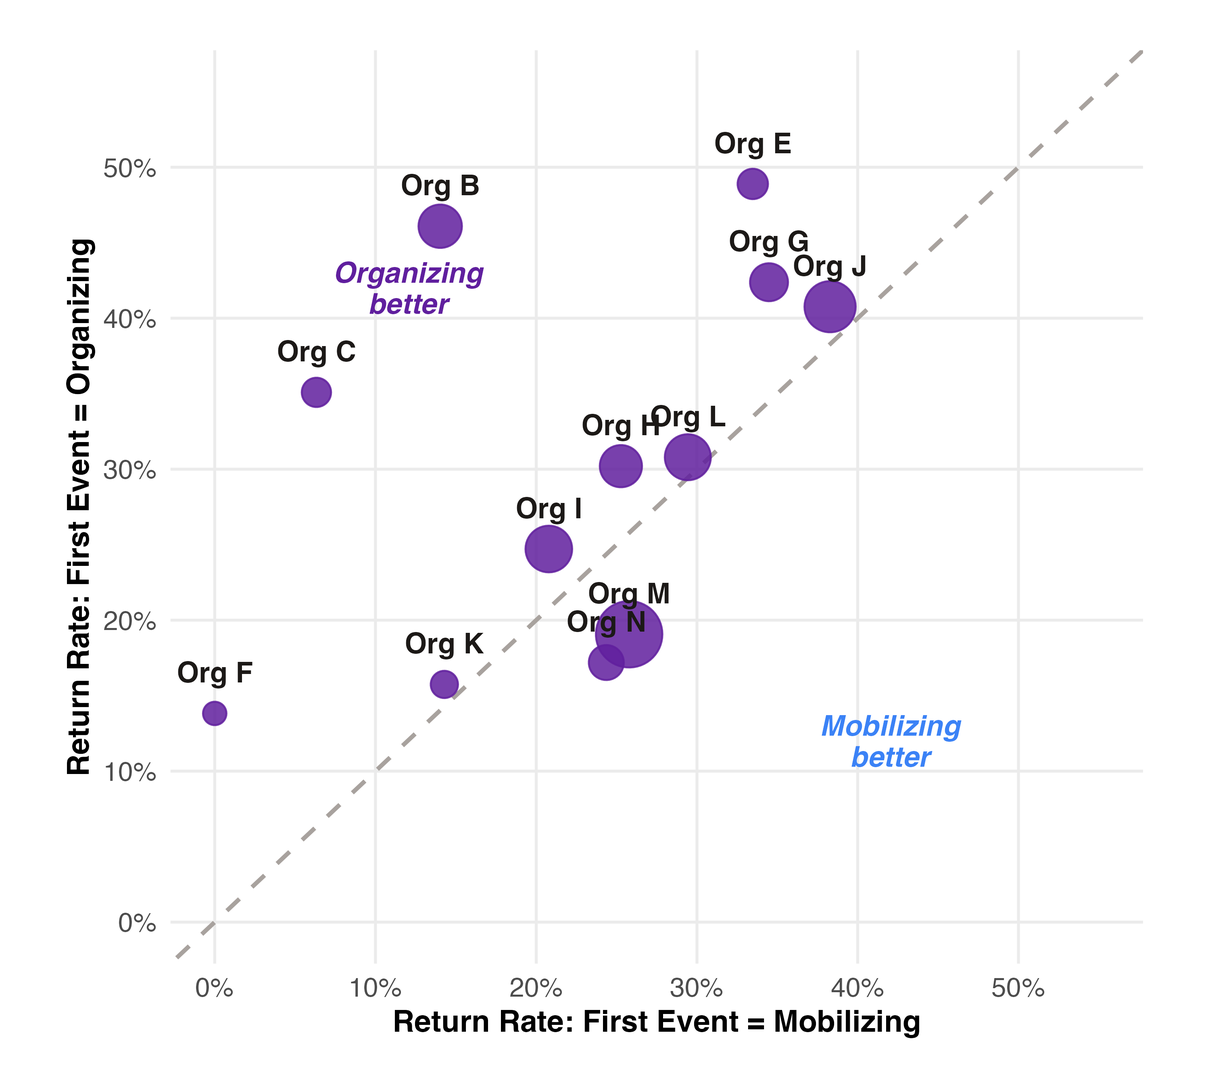
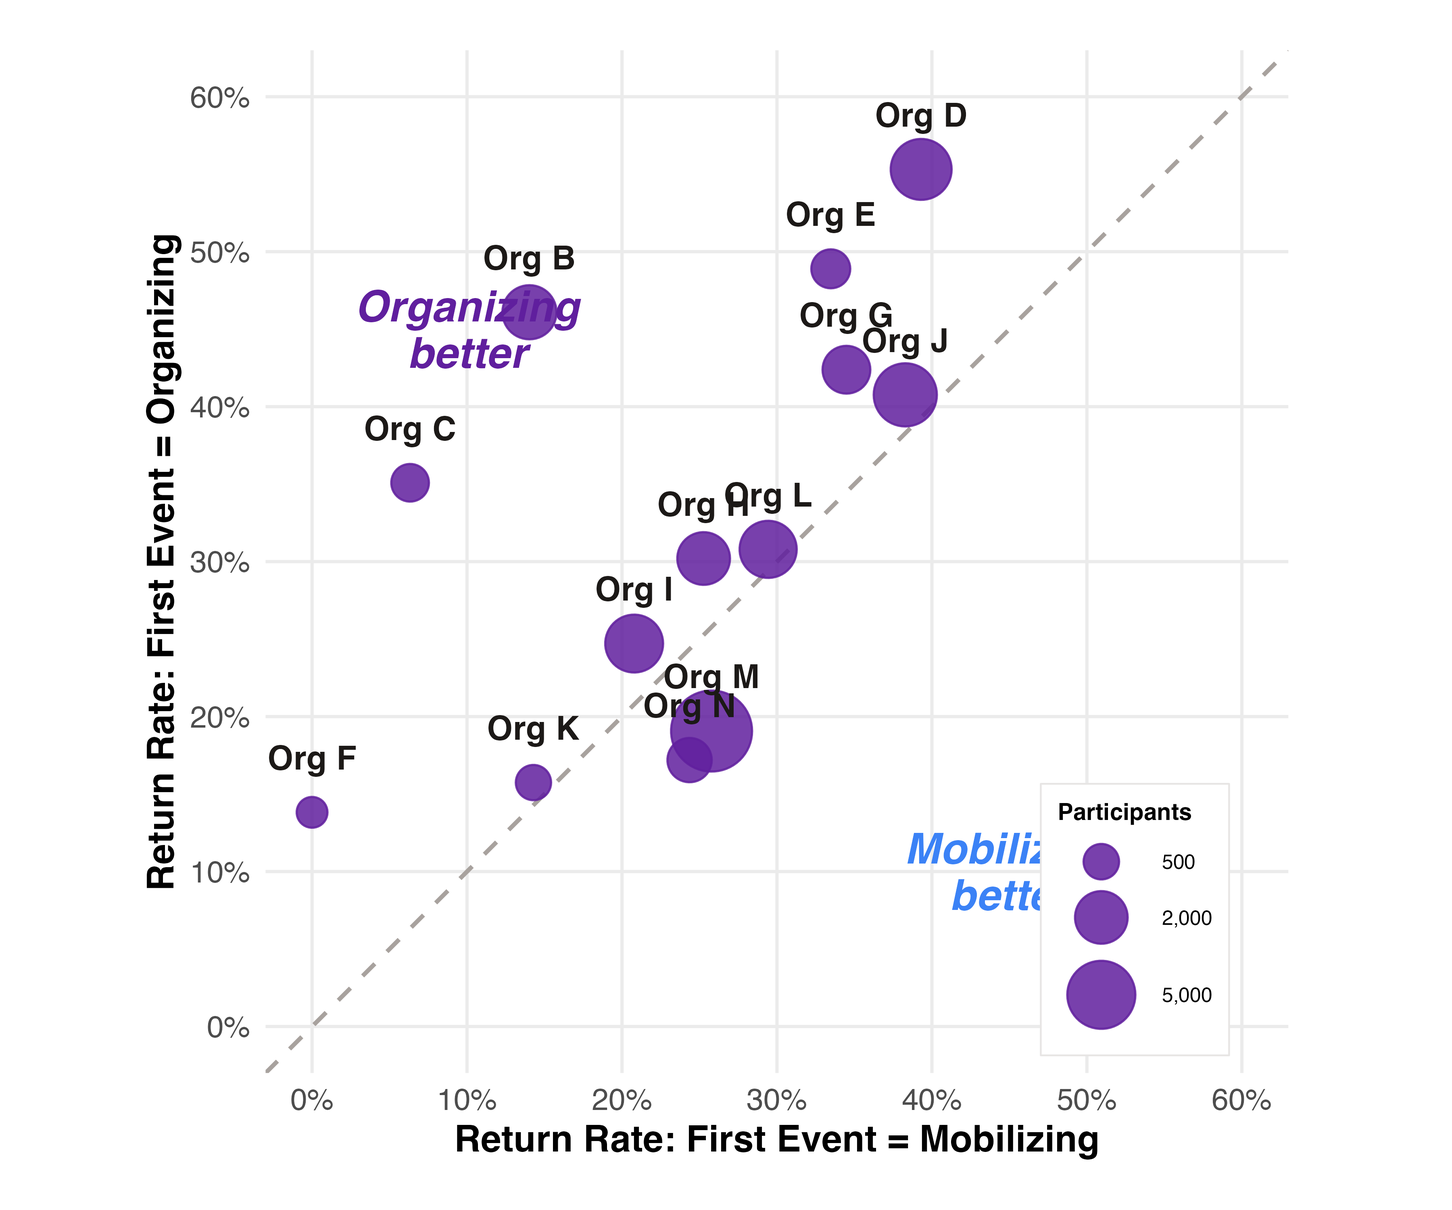
Fix slide presentation issues
- Slide 7: Remove all fragment animations
- Slide 8: Remove fragments, make DDx text larger and black
- Slide 9: Update amusement image to new webp
- Slide 10: Enlarge "Well past the election" text
- Slide 12: Update first bullet with OR finding
- Slide 13: Update footer with org-level and 60% links
- Slide 14-15: Regenerated charts with proper sizing
- Slide 16: Added "prospectively and over time"
- Slide 20: New Doran quote standalone slide
- Mechanisms: Purple sans-serif "Based on..." text
- Joy quote: De-italicized "si se puede"
- Theory slides: Fixed animation with unique ID
- Slide 24: Underlined "the purple line" in purple
- MO leg quote: Citation moved right
- A3: Added N=16 note
- Removed A4/A5 appendix (now in main)

🤖 Generated with [Claude Code](https://claude.com/claude-code)

diff --git a/index.html b/index.html
@@ -728,13 +728,13 @@
         <div class="corner corner-br"></div>
 
         <div class="content centered">
-            <div class="fragment" style="background: white; border: 1px solid var(--border); border-radius: 12px; padding: 2rem; max-width: 700px; margin: 0 auto;">
+            <div style="background: white; border: 1px solid var(--border); border-radius: 12px; padding: 2rem; max-width: 700px; margin: 0 auto;">
                 <h3 style="font-family: 'Source Serif 4', Georgia, serif; font-size: clamp(1.3rem, 2.5vw, 1.75rem); font-weight: 600; color: var(--accent); margin-bottom: 1rem;">POLIS Dataset</h3>
                 <p style="font-size: clamp(0.9rem, 1.4vw, 1.05rem); color: var(--text-secondary); margin-bottom: 0.25rem;">Participation, Organizing, and Local Influence Study</p>
                 <p style="font-size: clamp(1rem, 1.5vw, 1.15rem); line-height: 1.6; margin-top: 1rem;">Tracks the organizational infrastructure linking civic participation and political power</p>
             </div>
 
-            <div class="fragment" style="display: grid; grid-template-columns: repeat(4, 1fr); gap: 1.5rem; margin-top: 2.5rem; max-width: 800px; margin-left: auto; margin-right: auto;">
+            <div style="display: grid; grid-template-columns: repeat(4, 1fr); gap: 1.5rem; margin-top: 2.5rem; max-width: 800px; margin-left: auto; margin-right: auto;">
                 <div style="text-align: center; padding: 1.5rem; background: var(--accent-light); border-radius: 12px;">
                     <div style="font-family: 'Source Serif 4', Georgia, serif; font-size: clamp(2rem, 4vw, 2.75rem); font-weight: 600; color: var(--accent); line-height: 1;">38</div>
                     <div style="font-size: clamp(0.8rem, 1.2vw, 0.95rem); color: var(--text-secondary); margin-top: 0.5rem;">organizations</div>
@@ -774,13 +774,13 @@
                 <p>Whose data is included so far?</p>
             </div>
 
-            <div class="fragment" style="background: white; border: 1px solid var(--border); border-radius: 8px; padding: 1.25rem 1.5rem; margin-bottom: 1rem;">
+            <div style="background: white; border: 1px solid var(--border); border-radius: 8px; padding: 1.25rem 1.5rem; margin-bottom: 1rem;">
                 <p style="font-size: 1.15rem; line-height: 1.5;"><strong style="color: var(--accent);">38 independent power-building organizations (IPOs)</strong> — multifaith, multiracial, working class membership associations</p>
             </div>
 
-            <p class="fragment" style="font-size: 0.9rem; color: var(--text-secondary); margin: 1rem 0;">DDx voter contact comparison (2024 General Election):</p>
+            <p style="font-size: 1.2rem; color: var(--text); font-weight: 600; margin: 1rem 0;">DDx voter contact comparison (2024 General Election):</p>
 
-            <div class="fragment" style="background: white; border: 1px solid var(--border); padding: 1.25rem 1.5rem;">
+            <div style="background: white; border: 1px solid var(--border); padding: 1.25rem 1.5rem;">
                 <div style="display: flex; justify-content: center; gap: 2.5rem; margin-bottom: 1rem; font-size: 0.95rem;">
                     <div style="display: flex; align-items: center; gap: 0.5rem;">
                         <div style="width: 16px; height: 16px; background: var(--accent);"></div>
@@ -820,7 +820,7 @@
                 </div>
             </div>
 
-            <div class="fragment evidence-grid" style="margin-top: 1rem;">
+            <div class="evidence-grid" style="margin-top: 1rem;">
                 <div class="evidence-card">
                     <div class="evidence-stat">1 in 8</div>
                     <div class="evidence-label">Harris-Walz voter contacts came from POLIS IPOs</div>
@@ -847,7 +847,7 @@
 
         <div class="content centered" style="max-width: 900px;">
             <div style="display: grid; grid-template-columns: 1fr 1.5fr; gap: 2rem; align-items: center;">
-                <img src="assets/amusement-park.avif" alt="Amusement park" style="width: 100%; border-radius: 8px; box-shadow: 0 4px 16px rgba(0,0,0,0.15);">
+                <img src="assets/amusement.webp" alt="Amusement park" style="width: 100%; border-radius: 8px; box-shadow: 0 4px 16px rgba(0,0,0,0.15);">
                 <div>
                     <blockquote style="font-family: 'Source Serif 4', Georgia, serif; font-size: clamp(1.2rem, 2.2vw, 1.5rem); line-height: 1.5; color: var(--text); font-style: italic; margin-bottom: 1.5rem; text-align: left;">
                         "Getting you to vote is just getting you into the <span style="color: var(--accent); font-weight: 600;">amusement park</span>. It doesn't get you on any of the rides. From there, we talk about the legislation, the policy... all the work that we do to inform and enhance and change the laws to benefit our community."
@@ -873,12 +873,15 @@
 
         <div class="content wide">
             <div class="statement-box" style="margin-bottom: 1rem; padding: 1rem 1.25rem;">
-                <p style="font-size: 1.1rem;">The organizations in the study are leading hyperlocal efforts to defend communities against federal overreach (examples from Feb. 2026).</p>
+                <p style="font-size: 1.4rem;">Well past the election, the orgs in this study are leading hyperlocal efforts to defend communities against federal overreach.</p>
             </div>
 
             <div style="display: grid; grid-template-columns: 1fr 1fr; gap: 1rem;">
                 <div class="fragment state-card-img" style="padding: 1.25rem; border-radius: 8px;">
-                    <div style="width: 60px; height: 42px; background: var(--accent); border-radius: 4px; display: flex; align-items: center; justify-content: center; color: white; font-weight: 700; font-size: 1.1rem; flex-shrink: 0;">MN</div>
+                    <!-- Minnesota outline - from Wikimedia Commons public domain -->
+                    <svg viewBox="460 60 90 130" style="width: 42px; height: 55px; flex-shrink: 0;">
+                        <path d="m 464.7,68.6 -1.1,2.8 .8,1.4 -.3,5.1 -.5,1.1 2.7,9.1 1.3,2.5 .7,14 1,2.7 -.4,5.8 2.9,7.4 .3,5.8 -.1,2.1 -.1,2.2 -.9,2 -3.1,1.9 -.3,1.2 1.7,2.5 .4,1.8 2.6,.6 1.5,1.9 -.2,39.5 h 28.2 l 36.3,-.9 18.6,-.7 -1.1,-4.5 -.2,-3 -2.2,-3 -2.8,-.7 -5.2,-3.6 -.6,-3.3 -6.3,-3.1 -.2,-1.3 h -3.3 l -2.2,-2.6 -2,-1.3 .7,-5.1 -.9,-1.6 .5,-5.4 1,-1.8 -.3,-2.7 -1.2,-1.3 -1.8,-.3 v -1.7 l 2.8,-5.8 5.9,-3.9 -.4,-13 .9,.4 .6,-.5 .1,-1.1 .9,-.6 1.4,1.2 .7,-.1 v 0 l -1.2,-2.2 4.3,-3.1 3.1,-3.7 1.6,-.8 4.7,-5.9 6.3,-5.8 3.9,-2.1 6.3,-2.7 7.6,-4.5 -.6,-.4 -3.7,.7 -2.8,.1 -1,-1.6 -1.4,-.9 -9.8,1.2 -1,-2.8 -1.6,-.1 -1.7,.8 -3.7,3.1 h -4.1 l -2.1,-1 -.3,-1.7 -3.9,-.8 -.6,-1.6 -.7,-1.3 -1,.9 -2.6,.1 -9.9,-5.5 h -2.9 l -.8,-.7 -3.1,1.3 -.8,1.3 -3.3,.8 -1.3,-.2 v -1.7 l -.7,-.9 h -5.9 l -.4,-1.4 h -2.6 l -1.1,.4 -2.4,-1.7 .3,-1.4 -.6,-2.4 -.7,-1.1 -.2,-3 -1,-3.1 -2.1,-1.6 h -2.9 l .1,8 -30.9,-.4 z" fill="var(--accent)" stroke="var(--bg)" stroke-width="0.6"/>
+                    </svg>
                     <div class="text" style="font-size: 1.05rem; line-height: 1.5;"><strong>Minnesota</strong> — Faith-based coalitions mobilized rapid response to ICE enforcement, including a 2,000-person rally at the state Capitol.</div>
                 </div>
                 <div class="fragment state-card-img" style="padding: 1.25rem; border-radius: 8px;">
@@ -924,7 +927,7 @@
                     <span style="font-family: 'Source Serif 4', Georgia, serif; font-size: 2.5rem; font-weight: 600; color: var(--accent); margin-right: 1.25rem; line-height: 1;">1</span>
                     <div>
                         <p style="font-size: 1.4rem; font-weight: 600; margin-bottom: 0.35rem;">Attrition (exit)</p>
-                        <p style="font-size: 1.15rem; color: var(--text-secondary);">Most participants exit after a single engagement</p>
+                        <p style="font-size: 1.15rem; color: var(--text-secondary);">Most exit after one event—but orgs with higher organizing event ratios retained more participants (OR = 1.41, p < 0.001)</p>
                     </div>
                 </li>
                 <li class="fragment" style="display: flex; align-items: baseline; margin-bottom: 1.75rem;">
@@ -1080,19 +1083,13 @@
                 </div>
             </div>
 
-            <p class="fragment" style="background: var(--accent-light); padding: 0.85rem 1.25rem; border-radius: 4px; margin-top: 0.75rem; text-align: center; font-size: 1.1rem;">
-                <strong style="color: var(--accent); display: block; text-align: center;">Orgs with balanced organizing/mobilizing activities stemmed attrition most.</strong>
-            </p>
-
-            <p class="small-text" style="margin-top: 0.75rem; text-align: center;">N=41,625 participants across 18 organizations</p>
-
             <p class="small-text" style="margin-top: 0.5rem; text-align: center;">
-                <a href="#slide-first-event" style="color: var(--accent);">First Event Analysis (N=32k) →</a> ·
-                <a href="#slide-balance" style="color: var(--accent);">Org-Level (N=16) →</a> ·
-                <a href="#slide-att-81" style="color: var(--accent);">81% chart →</a> ·
-                <a href="#slide-att-60" style="color: var(--accent);">60% chart →</a>
+                N = 41,625 participants across 18 organizations ·
+                <a href="#slide-balance" style="color: var(--accent);">Org-level scatter →</a> ·
+                <a href="#slide-att-60" style="color: var(--accent);">60% Sankey →</a>
             </p>
         </div>
+        <span class="slide-number">13</span>
     </section>
 
     <!-- ============================================
@@ -1105,15 +1102,17 @@
         <div class="corner corner-br"></div>
 
         <div class="content wide" style="text-align: center;">
-            <h2 style="font-size: clamp(1.4rem, 2.8vw, 2rem); margin-bottom: 1.5rem; line-height: 1.3;">
-                Participants whose first event was <span class="purple-text">organizing</span><br>had <span class="purple-text">41% higher odds</span> of returning
-            </h2>
-
-            <div style="margin: 0 auto; max-width: 700px;">
-                <img src="assets/first-event-retention.png" alt="Bar chart: Organizing 33.1% vs Mobilizing 26.0% return rate" style="width: 100%; max-height: 62vh; border-radius: 8px; box-shadow: 0 4px 20px rgba(0,0,0,0.12);">
+            <div class="statement-box" style="margin-bottom: 1rem;">
+                <p>...But participants whose first event was <em>organizing</em> had <strong>41% higher odds</strong> of returning.</p>
             </div>
 
-            <p class="fragment" style="margin-top: 1rem; font-size: 1.1rem; color: var(--text-secondary);">
+            <p style="font-size: 0.95rem; color: var(--text-secondary); margin-bottom: 0.75rem;">First Event Type → Return (Person-Level)</p>
+
+            <div style="margin: 0 auto; max-width: 650px;">
+                <img src="assets/first-event-retention.png" alt="Bar chart: Organizing 33.1% vs Mobilizing 26.0% return rate" style="width: 100%; max-height: 55vh; border-radius: 8px; box-shadow: 0 4px 20px rgba(0,0,0,0.12);">
+            </div>
+
+            <p style="margin-top: 0.75rem; font-size: 1rem; color: var(--text-secondary);">
                 OR = 1.41 (95% CI: 1.34–1.48) · χ² = 197, p < 0.001 · N = 32,613
             </p>
         </div>
@@ -1130,16 +1129,17 @@
         <div class="corner corner-br"></div>
 
         <div class="content wide" style="text-align: center;">
-            <h2 style="font-size: clamp(1.4rem, 2.8vw, 2rem); margin-bottom: 1.5rem; line-height: 1.3;">
-                Effect consistent across organizations
+            <h2 style="font-size: clamp(1.4rem, 2.8vw, 2rem); margin-bottom: 1rem; line-height: 1.3;">
+                Effect consistent across organizations<br>
+                <span style="font-size: 0.75em; font-weight: 400; color: var(--text-secondary);">(most points above diagonal)</span>
             </h2>
 
-            <div style="margin: 0 auto; max-width: 700px;">
-                <img src="assets/first-event-by-org.png" alt="Scatter plot: 12 of 14 orgs show organizing advantage" style="width: 100%; max-height: 62vh; border-radius: 8px; box-shadow: 0 4px 20px rgba(0,0,0,0.12);">
+            <div style="margin: 0 auto; max-width: 750px;">
+                <img src="assets/first-event-by-org.png" alt="Scatter plot: 12 of 14 orgs show organizing advantage" style="width: 100%; max-height: 58vh; border-radius: 8px; box-shadow: 0 4px 20px rgba(0,0,0,0.12);">
             </div>
 
-            <p class="fragment" style="margin-top: 1rem; font-size: 1.1rem; color: var(--text-secondary);">
-                12 of 14 organizations show organizing advantage (points above diagonal)
+            <p style="margin-top: 0.75rem; font-size: 1.1rem; color: var(--text-secondary);">
+                12 of 14 organizations show organizing advantage · Bubble size = participants
             </p>
         </div>
         <span class="slide-number">15</span>
@@ -1156,7 +1156,7 @@
 
         <div class="content">
             <div class="statement-box">
-                <p>Organizations tracked "purple line" leaders over time.</p>
+                <p>Organizations tracked "purple line" leaders <em>prospectively and over time</em>.</p>
             </div>
 
             <!-- Legend -->
@@ -1527,16 +1527,30 @@
                                     </svg>
             </div>
 
-            <blockquote class="fragment" style="font-family: 'Source Serif 4', Georgia, serif; font-size: clamp(1.15rem, 1.8vw, 1.4rem); line-height: 1.5; color: var(--text-secondary); font-style: italic; margin-top: 1rem; padding-left: 1.25rem; border-left: 4px solid var(--accent-muted);">
-                "It is the <strong style="color: var(--accent);">depth and structure</strong> of organized bases that determine whether a scaled voter mobilization can be translated into long-term power."
-                <span style="display: block; font-style: normal; font-size: 1.1rem; margin-top: 0.5rem;">— Doran Schrantz</span>
-            </blockquote>
         </div>
         <span class="slide-number">19</span>
     </section>
 
     <!-- ============================================
-         SLIDE 19: PROPOSED MECHANISMS (ALL 6)
+         SLIDE 20: DORAN SCHRANTZ QUOTE
+         ============================================ -->
+    <section class="slide" id="slide-20" data-slide="20" data-section="results">
+        <div class="corner corner-tl"></div>
+        <div class="corner corner-tr"></div>
+        <div class="corner corner-bl"></div>
+        <div class="corner corner-br"></div>
+
+        <div class="content centered">
+            <blockquote style="font-family: 'Source Serif 4', Georgia, serif; font-size: clamp(1.5rem, 2.5vw, 2rem); line-height: 1.6; color: var(--text); font-style: italic; max-width: 800px; margin: 0 auto; padding: 2rem; border-left: 5px solid var(--accent);">
+                "It is the <strong style="color: var(--accent);">depth and structure</strong> of organized bases that determine whether a scaled voter mobilization can be translated into long-term power."
+                <span style="display: block; font-style: normal; font-size: 1.2rem; margin-top: 1.5rem; color: var(--text-secondary);">— Doran Schrantz, ISAIAH</span>
+            </blockquote>
+        </div>
+        <span class="slide-number">20</span>
+    </section>
+
+    <!-- ============================================
+         SLIDE 21: PROPOSED MECHANISMS (ALL 6)
          ============================================ -->
     <section class="slide" id="slide-25" data-slide="25" data-section="discussion">
         <div class="corner corner-tl"></div>
@@ -1546,7 +1560,7 @@
 
         <div class="content">
             <h2 style="font-size: clamp(1.6rem, 3.5vw, 2.5rem);">Proposed Mechanisms</h2>
-            <p style="font-family: 'Source Serif 4', Georgia, serif; font-size: 1.1rem; font-style: italic; color: var(--text-secondary); margin-top: 0.5rem;">Based on companion qualitative research: 2 years of fieldwork; 50+ in-depth interviews</p>
+            <p style="font-family: 'Inter', sans-serif; font-size: 1.1rem; color: var(--accent); margin-top: 0.5rem; font-weight: 500;">Based on companion qualitative research: 2 years of fieldwork; 50+ in-depth interviews</p>
 
             <ol style="list-style: none; margin-top: 1rem;">
                 <li class="fragment" style="display: flex; align-items: baseline; margin-bottom: 0.85rem;">
@@ -1614,7 +1628,7 @@
             </div>
 
             <div class="fragment pull-quote" style="margin-top: 1rem;">
-                "You <em>know</em> when you are in a sí se puede group or a no se puede group."
+                "You <em>know</em> when you are in a <span style="font-style: normal;">sí se puede</span> group or a <span style="font-style: normal;">no se puede</span> group."
                 <span class="attribution">— Joy Cushman</span>
             </div>
         </div>
@@ -1622,9 +1636,9 @@
     </section>
 
     <!-- ============================================
-         SLIDE 21: THREE THEORETICAL CONVERSATIONS
+         SLIDE 22: THREE THEORETICAL CONVERSATIONS
          ============================================ -->
-    <section class="slide" id="slide-25" data-slide="25" data-section="discussion">
+    <section class="slide" id="slide-theory" data-slide="theory" data-section="discussion">
         <div class="corner corner-tl"></div>
         <div class="corner corner-tr"></div>
         <div class="corner corner-bl"></div>
@@ -1707,7 +1721,7 @@
             <h2>Future Directions</h2>
 
             <ul class="bullet-list" style="font-size: clamp(0.95rem, 1.4vw, 1.1rem); margin-top: 2rem;">
-                <li class="fragment"><strong>What builds the purple line?</strong>
+                <li class="fragment"><strong>What builds <span style="text-decoration: underline; text-decoration-color: var(--accent); text-underline-offset: 3px;">the purple line</span>?</strong>
                     <ul class="bullet-list" style="margin-top: 0.5rem;">
                         <li class="sub">Companion paper (McKenna, Ganz, Lin) shows organizing workshops produce measurable shifts in collective agency</li>
                     </ul>
@@ -1779,8 +1793,9 @@
 
             <div class="fragment pull-quote" style="font-size: clamp(1.1rem, 1.8vw, 1.3rem); margin-top: 1rem;">
                 "And I think some groups sometimes they have spark moments and then they kind of lay low and then they come back around and lay low. So [this organization] is just staying in everybody's face."
-                <span class="attribution">— Municipal legislator, Missouri (D)</span>
             </div>
+
+            <p style="text-align: right; margin-top: 1.5rem; font-size: 1rem; color: var(--text-secondary);">— Municipal legislator, Missouri (D)</p>
         </div>
     </section>
 
@@ -1836,7 +1851,7 @@
                 </div>
             </div>
 
-            <p class="small-text" style="margin-top: 1.5rem; background: var(--accent-light); padding: 0.75rem 1rem; border-radius: 6px;">Red, blue, and purple electoral contexts · Data use agreements with each organization · Quantitative microdata linked to qualitative case documentation</p>
+            <p class="small-text" style="margin-top: 1.5rem; background: var(--accent-light); padding: 0.75rem 1rem; border-radius: 6px;">N = 16 organizations; more forthcoming · Red, blue, and purple electoral contexts · Data use agreements with each organization · Quantitative microdata linked to qualitative case documentation</p>
         </div>
         <span class="slide-number">A3</span>
     </section>
@@ -1884,55 +1899,6 @@
         <span class="slide-number">A3</span>
     </section>
 
-    <!-- ============================================
-         APPENDIX: FIRST EVENT TYPE
-         ============================================ -->
-    <section class="slide" id="slide-first-event" data-slide="first-event" data-section="appendix">
-        <div class="corner corner-tl"></div>
-        <div class="corner corner-tr"></div>
-        <div class="corner corner-bl"></div>
-        <div class="corner corner-br"></div>
-
-        <div class="content wide">
-            <h2 style="font-size: clamp(1.2rem, 2.2vw, 1.6rem); margin-bottom: 0.5rem;">First Event Type → Return (Person-Level)</h2>
-            <p style="font-size: 1rem; color: var(--text-secondary); margin-bottom: 1rem;">χ² = 197, p < 0.001, OR = 1.41 (N = 32,613 participants)</p>
-
-            <div style="display: grid; grid-template-columns: 1fr 1fr; gap: 1.5rem;">
-                <div style="text-align: center;">
-                    <img src="assets/first-event-retention.png" alt="Bar chart comparing return rates by first event type" style="max-width: 100%; max-height: 55vh; border-radius: 8px; box-shadow: 0 4px 16px rgba(0,0,0,0.1);">
-                    <p class="small-text" style="margin-top: 0.5rem;">Participants whose first event was organizing had 41% higher odds of returning</p>
-                </div>
-                <div style="text-align: center;">
-                    <img src="assets/first-event-by-org.png" alt="Scatter plot showing organizing vs mobilizing return rates by org" style="max-width: 100%; max-height: 55vh; border-radius: 8px; box-shadow: 0 4px 16px rgba(0,0,0,0.1);">
-                    <p class="small-text" style="margin-top: 0.5rem;">Effect consistent across organizations (most points above diagonal)</p>
-                </div>
-            </div>
-
-            <p class="small-text" style="margin-top: 1rem; text-align: center;"><a href="#slide-13" style="color: var(--accent);">← Back to Attrition Finding</a></p>
-        </div>
-        <span class="slide-number">A4</span>
-    </section>
-
-    <!-- ============================================
-         APPENDIX: ATTRITION 81% CHART
-         ============================================ -->
-    <section class="slide" id="slide-att-81" data-slide="att-81" data-section="appendix">
-        <div class="corner corner-tl"></div>
-        <div class="corner corner-tr"></div>
-        <div class="corner corner-bl"></div>
-        <div class="corner corner-br"></div>
-
-        <div class="content wide">
-            <h2 style="font-size: clamp(1.2rem, 2.2vw, 1.6rem); margin-bottom: 1rem;">Attrition Analysis: 81% Exit Rate</h2>
-
-            <div style="text-align: center;">
-                <img src="assets/att-81.png" alt="Attrition chart showing 81% exit rate" style="max-width: 100%; max-height: 65vh; border-radius: 8px; box-shadow: 0 4px 16px rgba(0,0,0,0.1);">
-            </div>
-
-            <p class="small-text" style="margin-top: 1rem; text-align: center;"><a href="#slide-13" style="color: var(--accent);">← Back to Attrition Finding</a></p>
-        </div>
-        <span class="slide-number">A5</span>
-    </section>
 
     <!-- ============================================
          APPENDIX: ATTRITION 60% CHART
@@ -1952,7 +1918,7 @@
 
             <p class="small-text" style="margin-top: 1rem; text-align: center;"><a href="#slide-13" style="color: var(--accent);">← Back to Attrition Finding</a></p>
         </div>
-        <span class="slide-number">A6</span>
+        <span class="slide-number">A4</span>
     </section>
 
     <!-- ============================================
@@ -2076,8 +2042,8 @@
         // Get unrevealed fragments for a slide
         function getUnrevealedFragments(slide) {
             if (!slide) return [];
-            // Get theory columns (slide-20) OR regular fragments
-            if (slide.id === 'slide-20') {
+            // Get theory columns (slide-theory) OR regular fragments
+            if (slide.id === 'slide-theory') {
                 const cols = [...slide.querySelectorAll('.theory-col:not(.visible)')];
                 if (cols.length > 0) return cols;
             }
